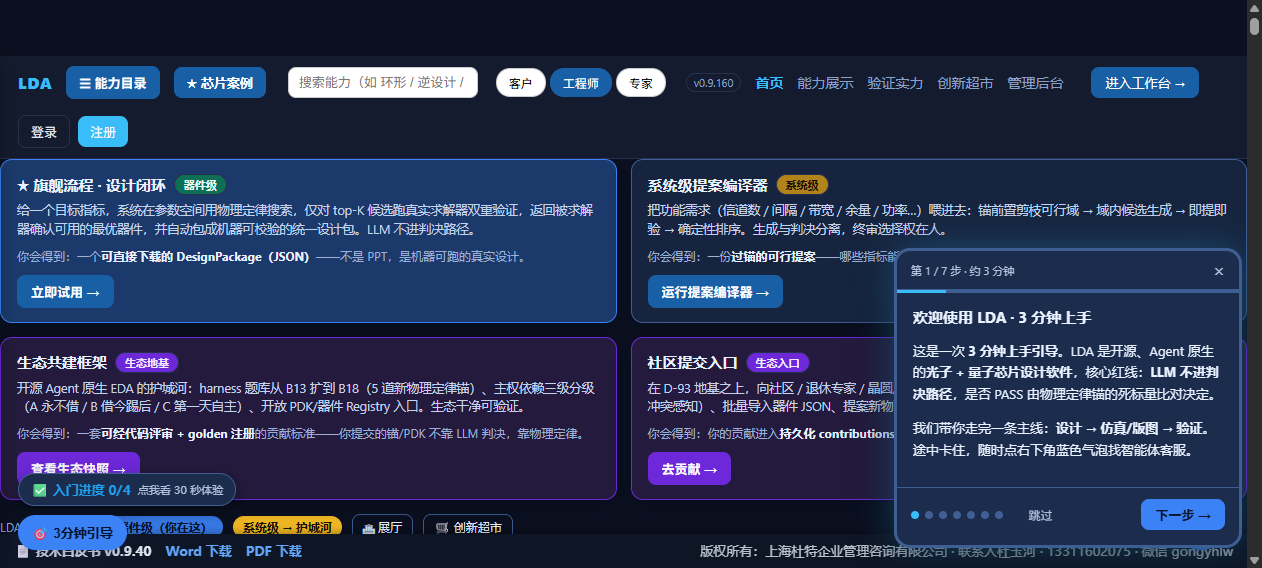
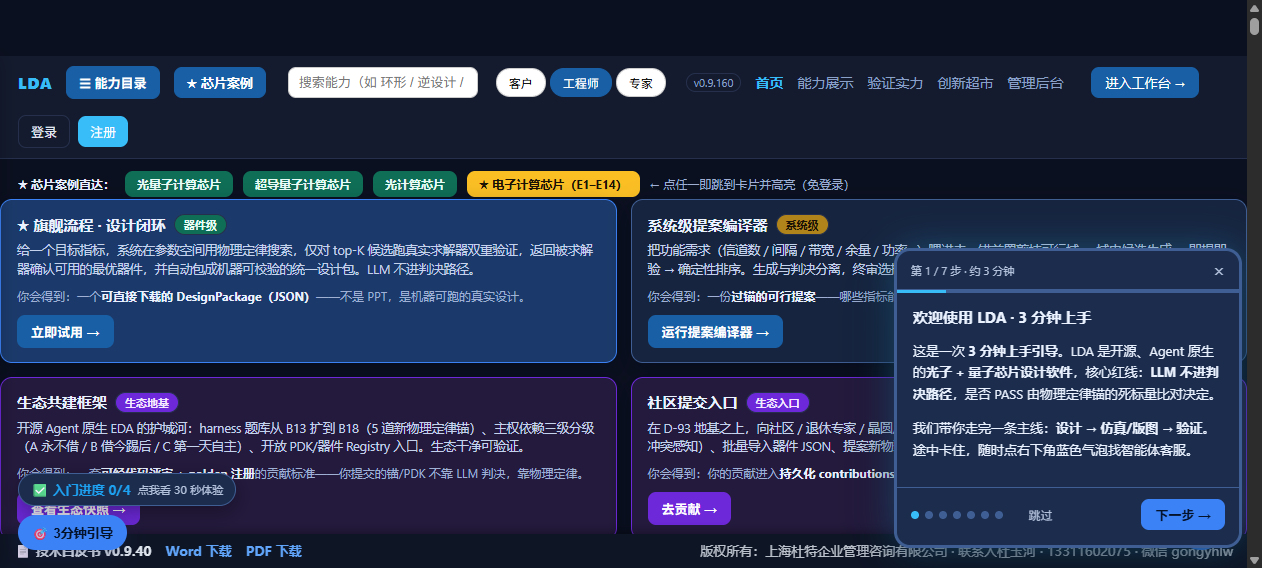
fix(webui): scroll-margin-top 70→120px（窄视口下 nav 换行实际高 103px，标题被遮）
实测 #lda-nav 因 flex-wrap 换行，实际高度 top=56→bottom=103px（非固定 56px），
原 70px 余量不足 ⇒ 锚点落地后卡片标题被压住约 15px。改 120px 留足余量。
入口门禁复跑 18 PASS / 0 FAIL。

Changed region(s): [[0.0, 0.2694, 0.9889, 0.9577], [0.8653, 0.419, 0.958, 0.4489], [0.7726, 0.419, 0.8344, 0.4489]]

diff --git a/lda/lda_webui/static/index.html b/lda/lda_webui/static/index.html
@@ -29,9 +29,11 @@
   .card.g .n{color:var(--green)} .card.a .n{color:var(--accent)}
   .sec{background:var(--panel);border:1px solid var(--line);border-radius:14px;
     padding:18px 20px;margin-bottom:22px;
-    /* v0.9.160：锚点跳转（#sec-ecore 等）时给 sticky 顶部导航留出 70px 余量，
-       否则标题会被 56px 高的 #lda-nav 压住，用户以为"跳过去是空的"。 */
-    scroll-margin-top:70px}
+    /* v0.9.160：锚点跳转（#sec-ecore 等）时给 sticky 顶部导航留出余量，
+       否则标题会被 #lda-nav 压住，用户以为"跳过去是空的"。
+       ⚠ 实测窄视口下 #lda-nav 因 flex-wrap 换行，实际高度可达 **103px**（非 56px），
+       故取 120px（> navTop56+wrap）而非 70px —— 受门禁 E4 守护。 */
+    scroll-margin-top:120px}
   .sec h2{margin:0 0 4px;font-size:16px}
   .sec .hint{color:var(--mut);font-size:12px;margin-bottom:14px}
   .subhead{font-size:13px;font-weight:600;color:var(--accent);margin:16px 0 8px;
